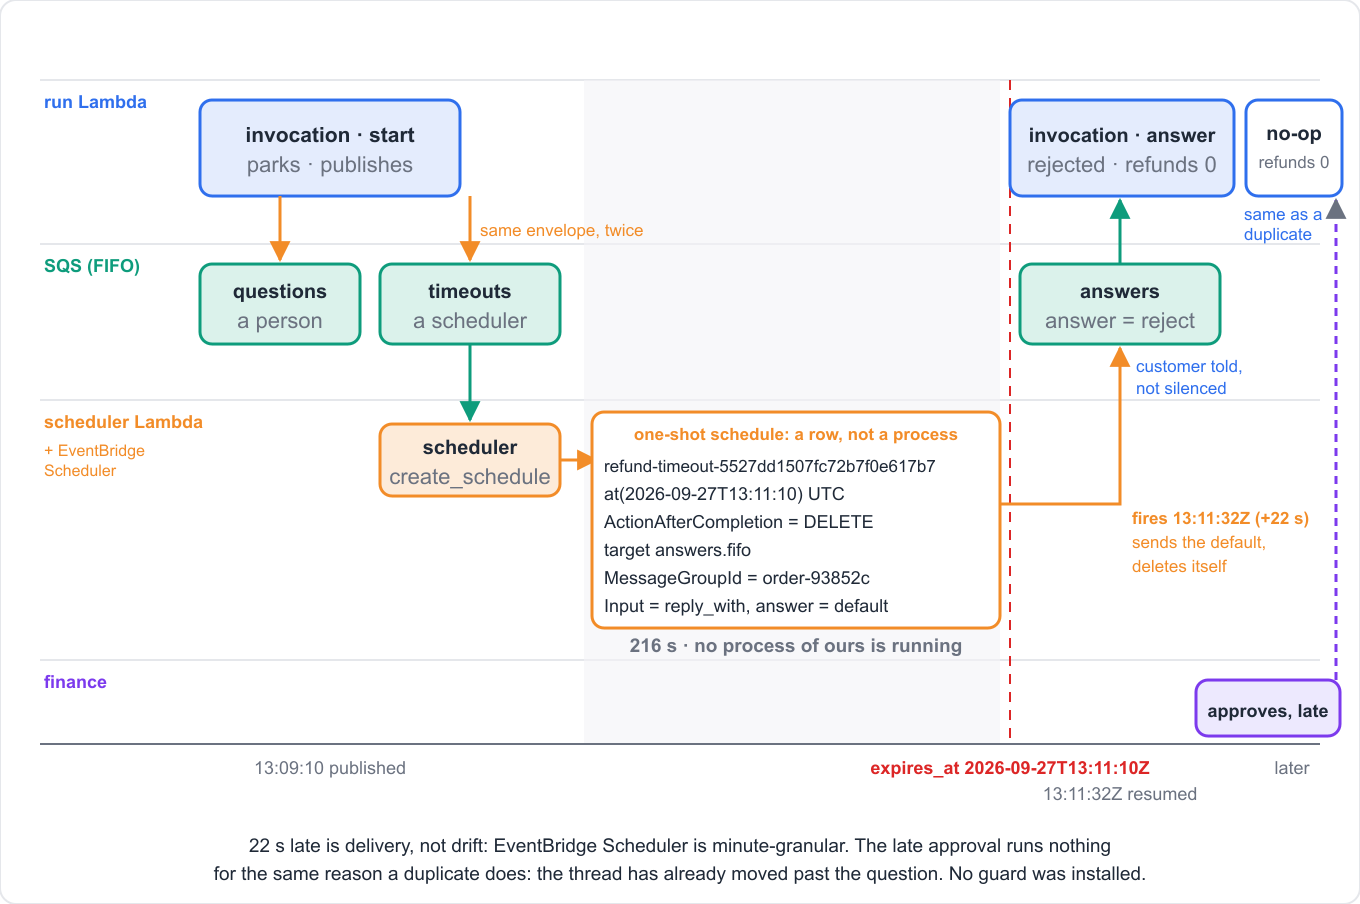
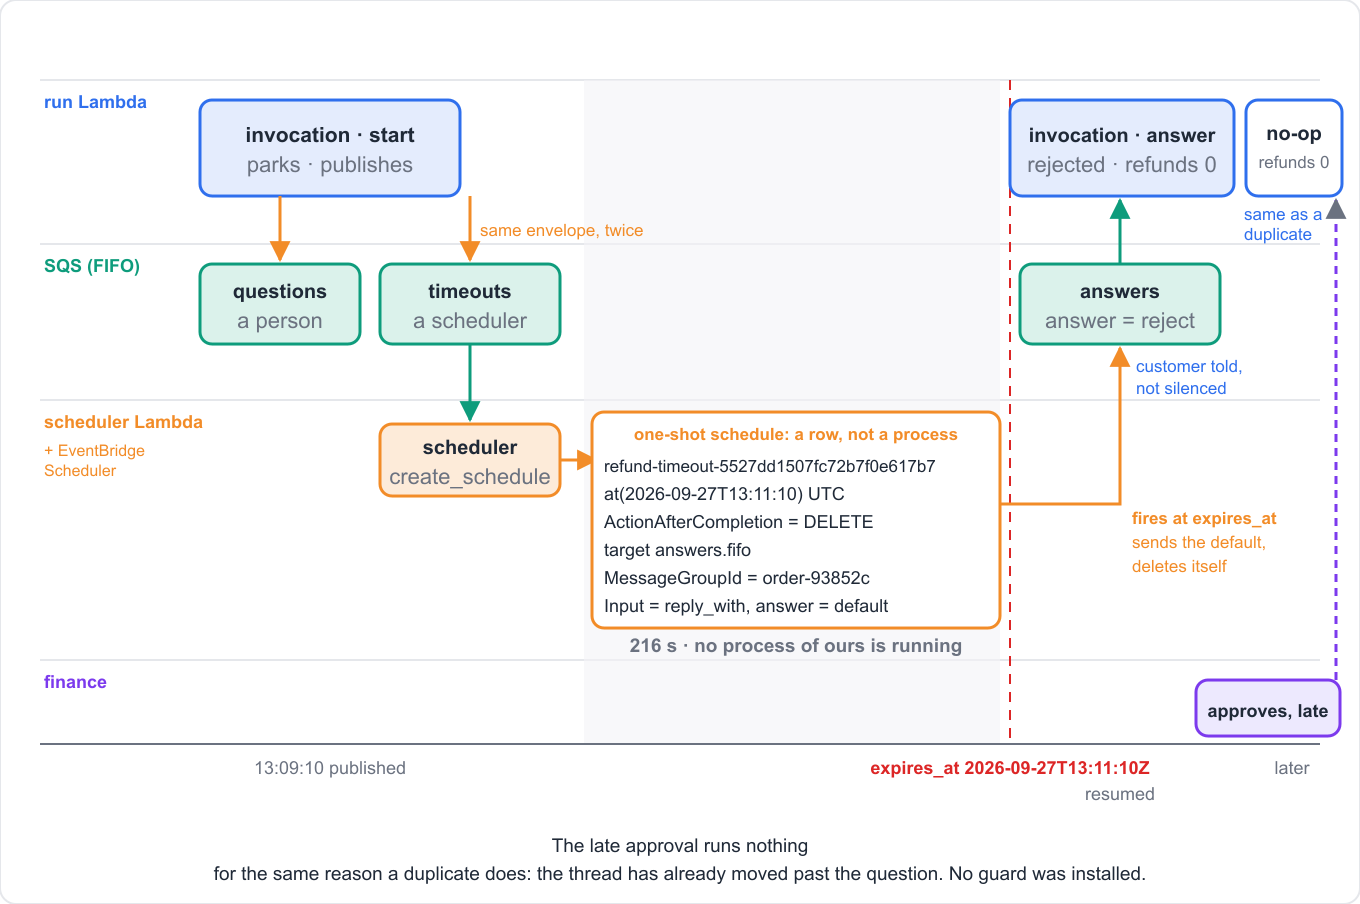
approval-on-lambda: drop the 22-second delivery gap, link agent-wait in the intro
Two owner changes.

The intro named both packages side by side but linked only the checkpointer;
agent-wait was bare text there and linked properly only in step 3. A reader now
meets the docs where the package is first named, on the URL step 3 already used.

And every reference to the 22-second delivery gap is gone. Kamal's point: EventBridge
Scheduler's delivery latency is not what this post argues, and dwelling on it pulls the
reader toward scheduler precision instead of the claim. Out of the post go the log lines
"the agent resumed at 13:11:32Z, 22s after expires_at" and the minute-granularity
parenthesis; out of the figure go the "fires 13:11:32Z (+22 s)" callout, the
"13:11:32Z resumed" axis label, and the footer sentence about delivery lag. The resume
now reads as happening at expires_at. The 216 s wait stays, because that is the stretch
where nothing of ours runs, which is the point.

No log file was edited. Those lines are still in run-deployed-timeout.log; the post
simply no longer quotes them.

The gate rule that pinned the resumed line was re-pointed, not deleted. The block
survives and only the quoted line changed, so it now pins "the schedule fired and
deleted itself (ActionAfterCompletion=DELETE)", which the post does quote. That is the
distinction worth keeping against last round's seven deletions: delete a rule when the
evidence is gone, re-point it when the block lives and the citation moved. Deleting here
[…]

Changed region(s): [[0.1853, 0.9292, 0.8338, 0.9602], [0.7721, 0.8673, 0.8956, 0.8982], [0.8647, 0.5575, 0.9574, 0.5885]]

diff --git a/approval-on-lambda/check_diagrams.py b/approval-on-lambda/check_diagrams.py
@@ -126,7 +126,11 @@ LOG_RULES: list[tuple[str, str, str]] = [  # (log file, regex, label); the whole
     ("run-deployed-timeout.log", r'"Name": "refund-timeout-[0-9a-f]+"', "deadline: schedule name"),
     ("run-deployed-timeout.log", r'"ScheduleExpression": "at\([^"]+\)"', "deadline: at() expression"),
     ("run-deployed-timeout.log", r"waiting \d+s for the deadline", "deadline: wait"),
-    ("run-deployed-timeout.log", r"the agent resumed at [\dTZ:]+, \d+s after expires_at", "deadline: resumed"),
+    # 2026-09-28: was `the agent resumed at ..., Ns after expires_at`. The owner cut every
+    # reference to the 22 s delivery gap, because Scheduler's latency is not what the post
+    # argues. Re-pointed at a line the post still quotes rather than deleted, so this block
+    # keeps a log rule over it.
+    ("run-deployed-timeout.log", r"the schedule fired and deleted itself \(ActionAfterCompletion=DELETE\)", "deadline: fired and self-deleted"),
     ("run-deployed-timeout.log", r"refunds recorded [^\n:]+: \d+", "deadline: refund count"),
     # 2026-09-27: the schedule-DLQ line and the pytest summary are no longer quoted by the post
     # (the build-diary aside and "Reproduce it" were cut); the logs stay as README evidence.

diff --git a/approval-on-lambda/blog.md b/approval-on-lambda/blog.md
@@ -6,7 +6,7 @@ Human-in-the-loop tutorials assume the process is still running when the human a
 
 A refund over the limit needs finance. Finance takes days. Lambda gives you fifteen minutes. An event-driven runtime dies as soon as the event is processed. Even AgentCore gives a session's compute eight hours, and when it goes, anything held in memory goes with it.
 
-Two packages do the work. [`langgraph-dynamodb-checkpoint`](https://skamalj.github.io/agentstate-reducer/langgraph/dynamodb/) 0.5.0 makes the parked thread a row. `agent-wait` 0.8.0 makes the interrupt a message. Every number and log line below comes from a real run. The code, logs and tests are at [github.com/skamalj/agentstate-examples/tree/main/approval-on-lambda](https://github.com/skamalj/agentstate-examples/tree/main/approval-on-lambda).
+Two packages do the work. [`langgraph-dynamodb-checkpoint`](https://skamalj.github.io/agentstate-reducer/langgraph/dynamodb/) 0.5.0 makes the parked thread a row. [`agent-wait`](https://skamalj.github.io/agent-wait/) 0.8.0 makes the interrupt a message. Every number and log line below comes from a real run. The code, logs and tests are at [github.com/skamalj/agentstate-examples/tree/main/approval-on-lambda](https://github.com/skamalj/agentstate-examples/tree/main/approval-on-lambda).
 
 ![End to end: a start message on answers.fifo triggers invocation 1; the agent calls issue_refund, @wait parks it, the run ends with __interrupt__. DynamoDBSaver writes the parked thread (8 items) and publish_interrupts puts the envelope on questions.fifo and an open row in the approvals table. Then nothing runs for days. Finance reads the envelope, copies reply_with, sets the answer and sends it to answers.fifo; invocation 2 loads the thread back from DynamoDB, resumes, and issues the refund once.](images/whole-flow.png)
 
@@ -324,8 +324,6 @@ open rows for this thread       : 1
 
 --- waiting 216s for the deadline; no process of ours is running ---
 the schedule fired and deleted itself (ActionAfterCompletion=DELETE)
-the agent resumed at 13:11:32Z, 22s after expires_at
-(EventBridge Scheduler is minute-granular; that gap is delivery, not drift)
 
 refunds recorded after the deadline: 0
 ```
@@ -339,7 +337,7 @@ refunds recorded after the late approval: 0
 
 Nothing runs, and the timeout needed no guard to stop it. It is the same no-op as a duplicate approval: the thread has moved past the question.
 
-![The deadline end to end on thread order-93852c: the start invocation parks and publishes the same envelope to questions.fifo and timeouts.fifo. The scheduler Lambda creates a one-shot schedule named refund-timeout-5527dd1507fc72b7f0e617b7 with at(2026-09-27T13:11:10), ActionAfterCompletion DELETE, targeting answers.fifo with MessageGroupId order-93852c and the envelope's default as the answer. For 216 s no process runs. At expires_at 2026-09-27T13:11:10Z nothing fires; at 13:11:32Z, 22 s later, the schedule delivers the default and deletes itself, the agent resumes and rejects, refunds recorded 0. A late human approval is a no-op, refunds still 0.](images/timeout-sequence.png)
+![The deadline end to end on thread order-93852c: the start invocation parks and publishes the same envelope to questions.fifo and timeouts.fifo. The scheduler Lambda creates a one-shot schedule named refund-timeout-5527dd1507fc72b7f0e617b7 with at(2026-09-27T13:11:10), ActionAfterCompletion DELETE, targeting answers.fifo with MessageGroupId order-93852c and the envelope's default as the answer. For 216 s no process runs. At expires_at 2026-09-27T13:11:10Z the schedule delivers the default and deletes itself, the agent resumes and rejects, refunds recorded 0. A late human approval is a no-op, refunds still 0.](images/timeout-sequence.png)
 
 The schedule is a row in AWS: no container, nothing billed while it waits. The scheduler Lambda ran once, at question time.
 
